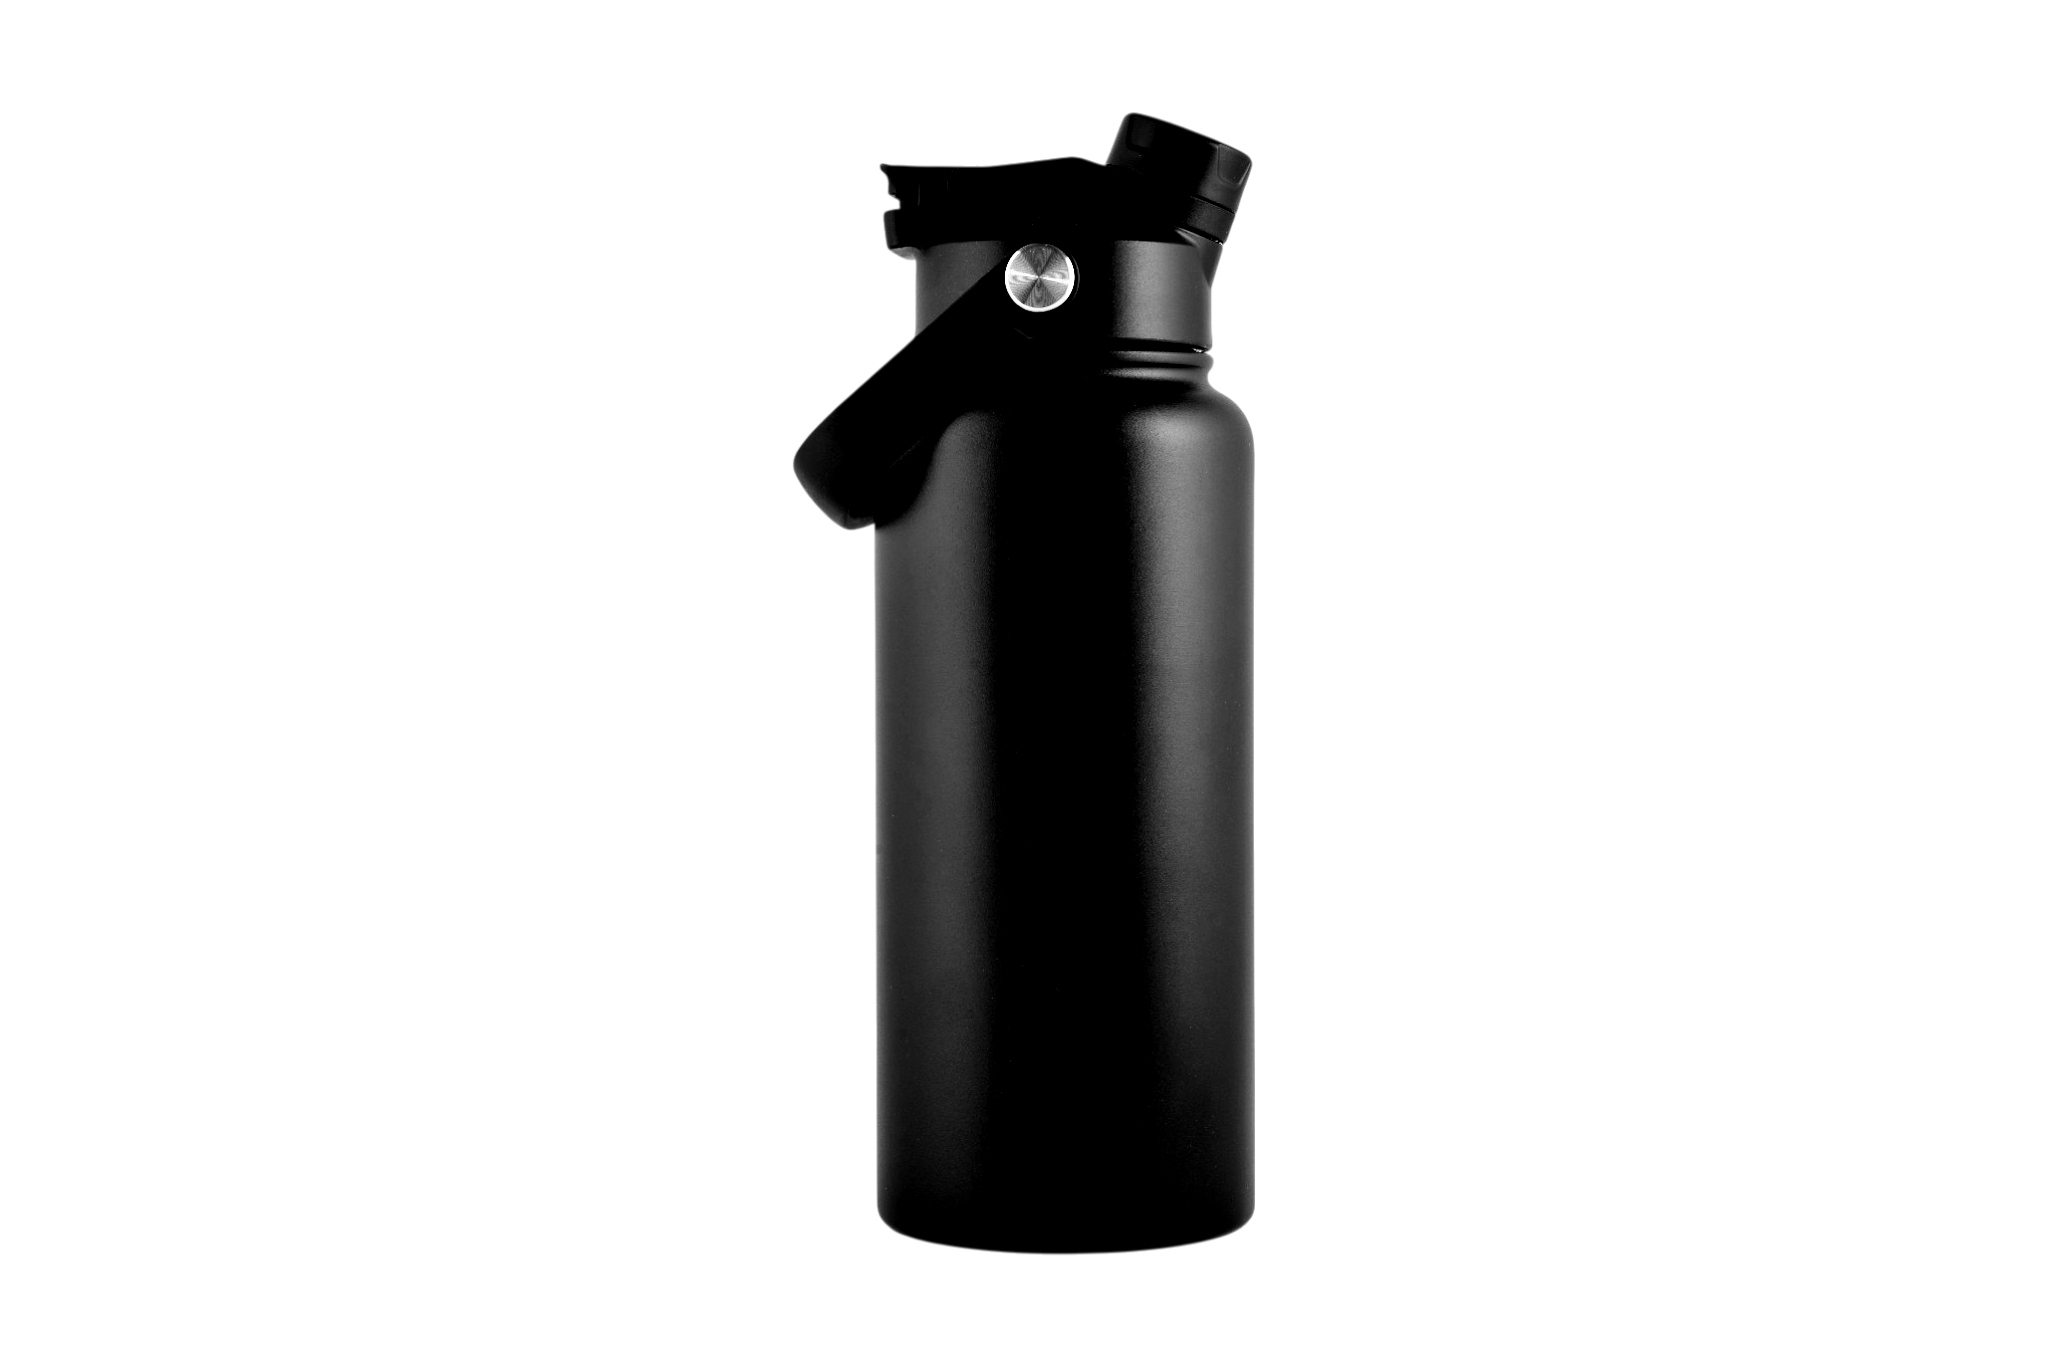
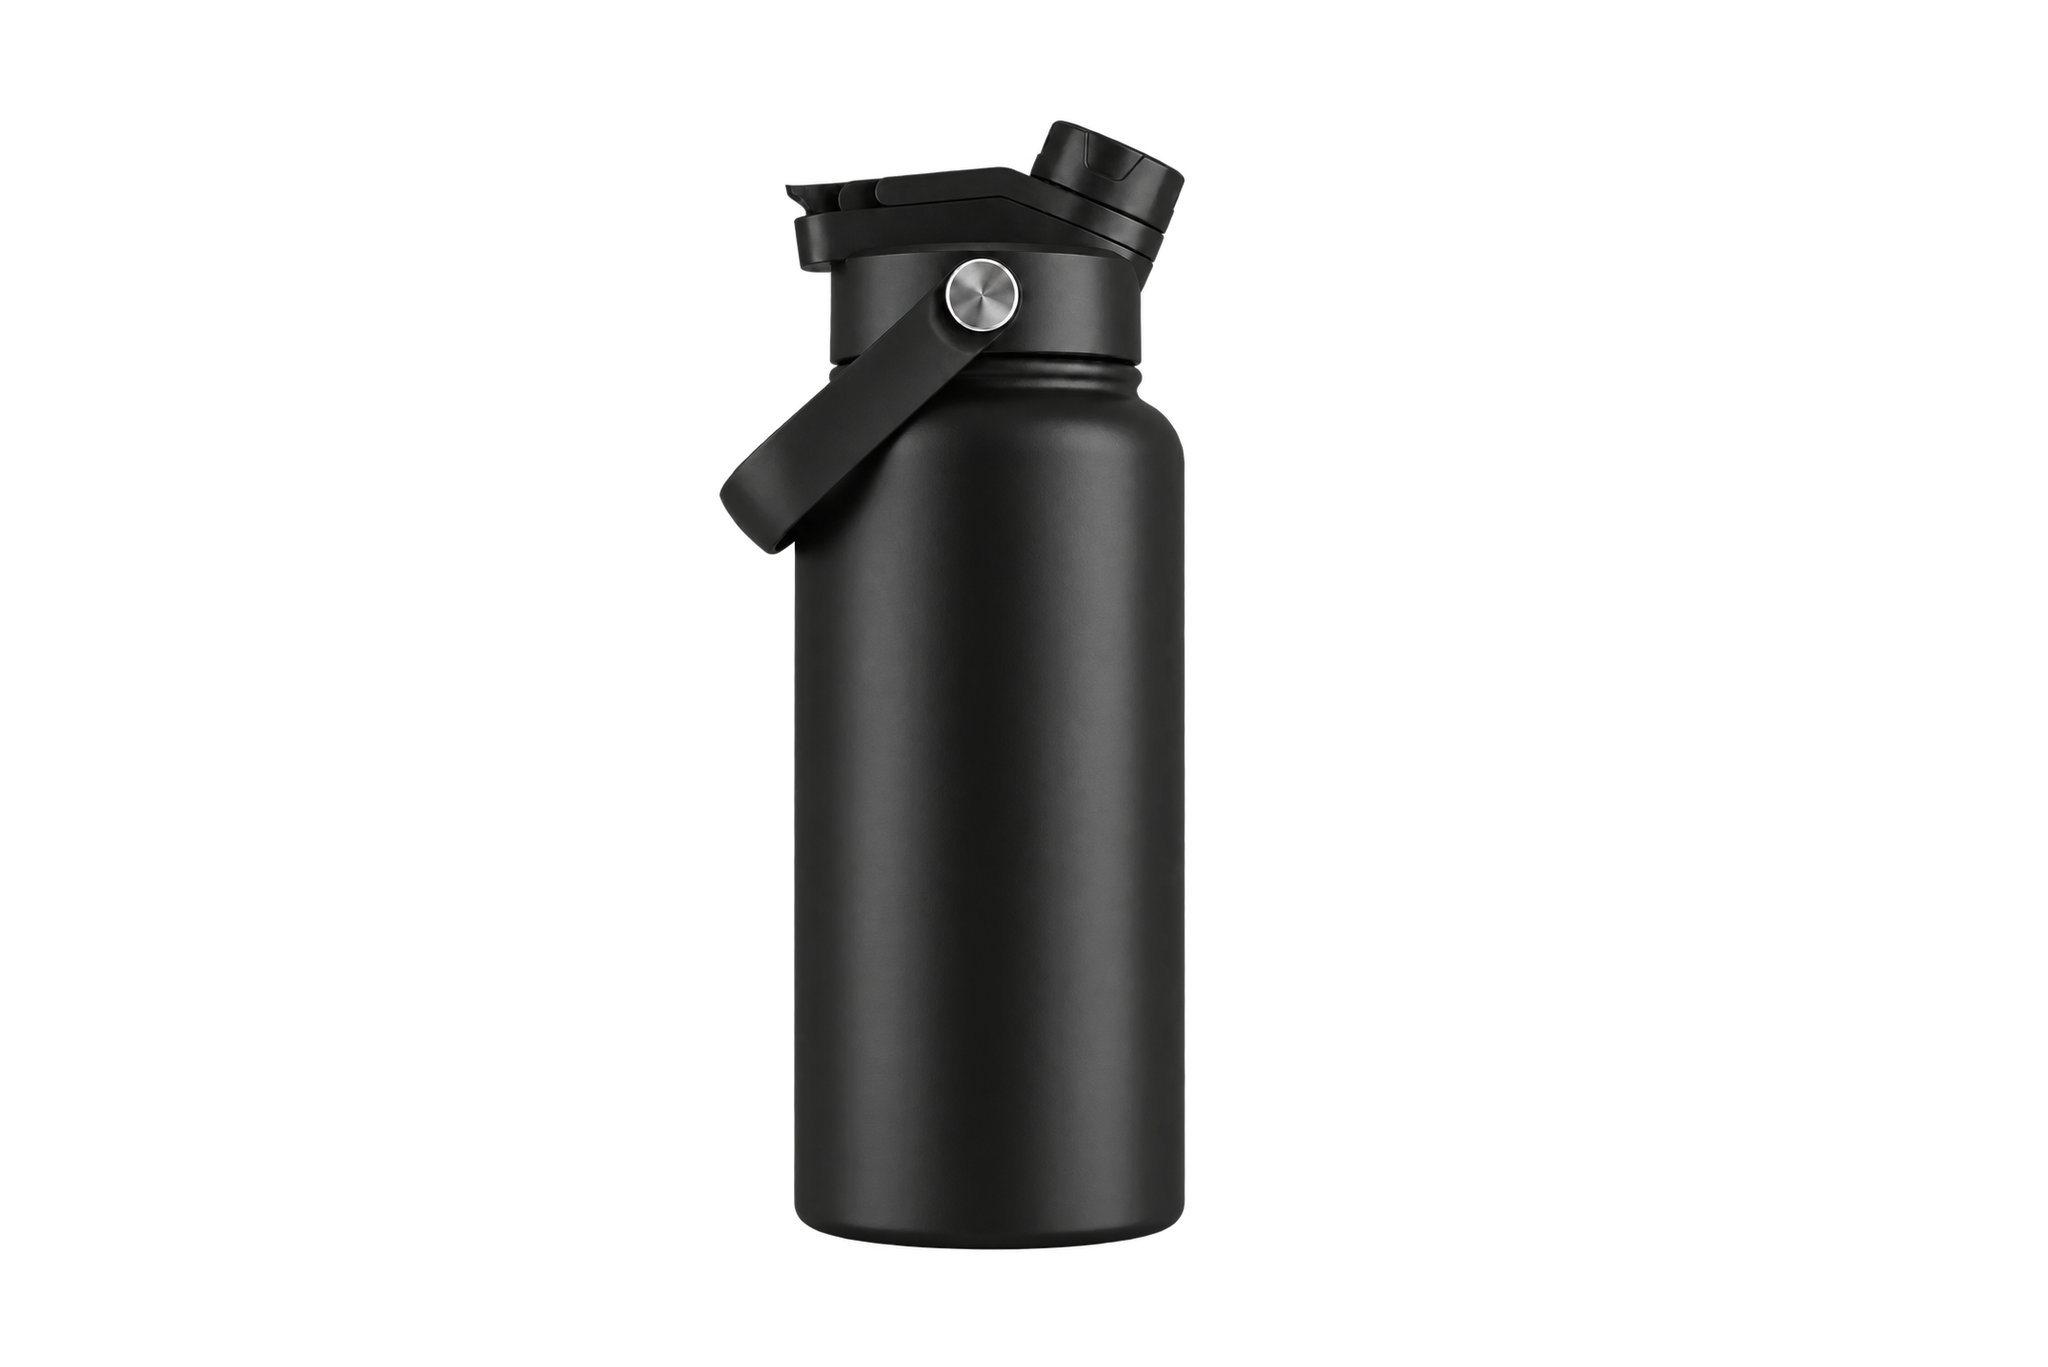
Update black bottle assets and print alignment

Changed region(s): [[0.3438, 0.0614, 0.625, 0.9217]]

diff --git a/src/utils/designItems.js b/src/utils/designItems.js
@@ -1,6 +1,12 @@
 // All transforms are fractions of the printable area, independent of viewport size.
 export const BOTTLE_FRAME = { width: 433, height: 650 };
-export function getPrintArea(size, side) {
+// Updated 1L product photos use a wider, differently centered bottle body.
+// Add colors here as their new photos replace the legacy assets.
+const UPDATED_1L_ASSET_COLORS = new Set(['midnight-black']);
+export function getPrintArea(size, side, color) {
+    if (size === '946ml' && UPDATED_1L_ASSET_COLORS.has(color)) return side === 'BACK'
+        ? { x: .30, y: .405, width: .34, height: .285 }
+        : { x: .35, y: .50, width: .31, height: .17 };
     if (side === 'BACK') return {
         x: size === '536ml' ? .35 : .365,
         y: .405,
@@ -11,8 +17,8 @@ export function getPrintArea(size, side) {
         ? { x: .31, y: .485, width: .35, height: .185 }
         : { x: .31, y: .50, width: .31, height: .17 };
 }
-export function areaAspect(size, side) {
-    const a = getPrintArea(size, side);
+export function areaAspect(size, side, color) {
+    const a = getPrintArea(size, side, color);
     return a.width * BOTTLE_FRAME.width / (a.height * BOTTLE_FRAME.height);
 }
 export function itemHeight(item, aspect) {

diff --git a/tests/designItems.test.js b/tests/designItems.test.js
@@ -9,6 +9,13 @@ test('back print areas follow the visible body center for each bottle size', () 
     assert.equal(getPrintArea('946ml', 'FRONT').x, .31);
 });
 
+test('updated 1L black assets use their recalibrated body centers', () => {
+    assert.equal(getPrintArea('946ml', 'FRONT', 'midnight-black').x, .35);
+    assert.equal(getPrintArea('946ml', 'BACK', 'midnight-black').x, .30);
+    assert.equal(getPrintArea('946ml', 'FRONT', 'pure-white').x, .31);
+    assert.equal(getPrintArea('946ml', 'BACK', 'pure-white').x, .365);
+});
+
 test('all rotated corners remain inside the print area across sizes and sides', () => {
     for (const size of ['536ml', '710ml', '946ml']) for (const side of ['FRONT', 'BACK']) {
         const area = areaAspect(size, side);

diff --git a/src/utils/itemArtwork.js b/src/utils/itemArtwork.js
@@ -77,7 +77,7 @@ function loadImage(src) {
 export async function captureItemSide(items, size, side, fonts, bottleSrc, color) {
     const svg = await composeItemsSvg(items, size, side, fonts);
     const [design, bottle] = await Promise.all([loadImage(svg), loadImage(bottleSrc)]);
-    const area = getPrintArea(size, side);
+    const area = getPrintArea(size, side, color);
     const canvas = document.createElement('canvas'); canvas.width = BOTTLE_FRAME.width * 3; canvas.height = BOTTLE_FRAME.height * 3;
     const ctx = canvas.getContext('2d');
     // Match the preview's object-cover image at top 9%, height 82% exactly.

diff --git a/src/components/ItemBottlePreview.jsx b/src/components/ItemBottlePreview.jsx
@@ -49,8 +49,8 @@ export default function ItemBottlePreview({ side, customization, selectedSize, s
     const areaRef = useRef(null);
     const gesture = useRef(null);
     const imageRef = useRef(null);
-    const area = getPrintArea(selectedSize, side);
-    const aspect = areaAspect(selectedSize, side);
+    const area = getPrintArea(selectedSize, side, selectedColor);
+    const aspect = areaAspect(selectedSize, side, selectedColor);
     const items = customization[side].items;
     const isCapture = view === 'capture';
     const editable = !isCapture && !!onUpdateItem;
